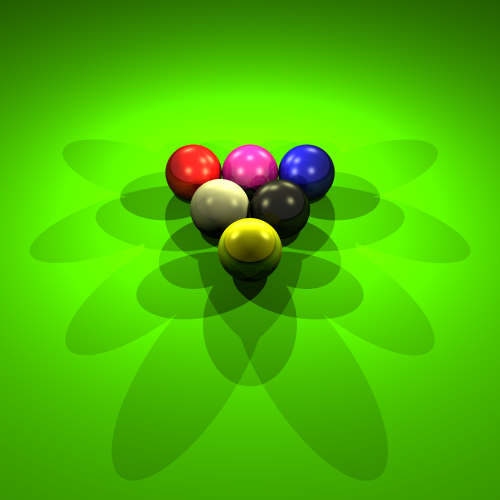
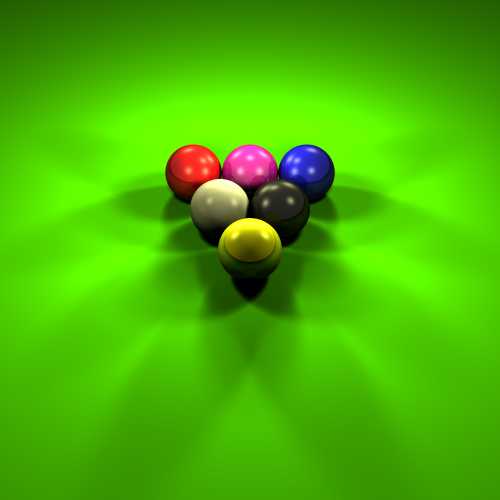
Soft shadows :white_check_mark:

diff --git a/src/RayTracing/Set.java b/src/RayTracing/Set.java
@@ -1,6 +1,7 @@
 package RayTracing;
 
 import java.util.ArrayList;
+import java.util.Random;
 
 import RayTracing.RayTracer.RayTracerException;
 
@@ -17,6 +18,8 @@ public class Set {
 	private ArrayList<Plane> planes;
 	private ArrayList<Triangle> triangles;
 	private ArrayList<Primitive> all_primitives;
+	
+	private Camera cam;
 	
 	public class PrimitiveAndIntersection
 	{
@@ -146,15 +149,7 @@ public class Set {
 		// + cast ray through primitive and get color "behind" it
 		// 	 same recursion.
 		//  + inside this method if transparencyCoeff is zero then return black immediately (no recursion).
-		Color transparency_color = new Color(0,0,0);
-		if (transp != 0){
-			transparency_color = bgcolor;
-			//TODO: is this right way to calculate transparency?
-			if (pai[1].intersection != null){ //found 2nd intersection
-				Ray r = new Ray(pai[1].intersection, ray.getVector());
-				transparency_color = getColorAtIntersectionOfRay(r, depth+1); //searches for the 2nd intersection...
-			}
-		}
+		Color transparency_color = getTransparencyColor(ray, depth, pai, transp);
 
 		//-- get specular color at intersection point
 		//      + doesn't cast more rays (only toward lights)
@@ -168,6 +163,19 @@ public class Set {
 		// return color.trim()
 		retColor.trim();
 		return retColor;
+	}
+
+	private Color getTransparencyColor(Ray ray, int depth, PrimitiveAndIntersection[] pai, double transp) {
+		Color transparency_color = new Color(0,0,0);
+		if (transp != 0){
+			transparency_color = bgcolor;
+			//TODO: is this right way to calculate transparency?
+			if (pai[1].intersection != null){ //found 2nd intersection
+				Ray r = new Ray(pai[1].intersection, ray.getVector());
+				transparency_color = getColorAtIntersectionOfRay(r, depth+1); //searches for the 2nd intersection...
+			}
+		}
+		return transparency_color;
 	}
 	 
 	private Color getSpecularColor(Primitive closest_primitive, Ray ray, Vector closest_intersection) 
@@ -187,7 +195,7 @@ public class Set {
 				Vector L = lit.getOrigin().substract(go_back_a_little);
 				Ray r = new Ray(go_back_a_little, L);
 				
-				if (!firstHit(r, lit)) //if in the shadow: take account for shadow intensity.
+				if (!firstHit(r, lit.getOrigin())) //if in the shadow: take account for shadow intensity.
 				{
 					continue;
 				}
@@ -207,11 +215,6 @@ public class Set {
 			e.printStackTrace();
 		}
 		return retColor;
-	}
-
-	private Color getTransparencyColor(Ray ray, int depth) {
-		// TODO Auto-generated method stub
-		return new Color(0,0,0);
 	}
 
 	private Color getReflectionColor(Ray ray_in, Vector closest_intersection, Primitive closest_primitive, int depth) {
@@ -315,27 +318,65 @@ public class Set {
 		{
 			try
 			{
+				Color I_p = lit.getColor();
 				Color litEffect = new Color(0,0,0);
 				//-- go back a little:
 				Vector go_back_a_little = new Vector(intersection.substract(inRay.getVector().timesScalar(Math.pow(10, -10))));//TODO: think about the correct timesScalar(?)
-
-				Vector L = lit.getOrigin().substract(go_back_a_little);
 				Vector N = primitive.normalAtIntersection(inRay).toUnit();
 				
-				//TODO: soft shadows : need more rays to be cast towards the light.
+				//-- define light rectangle
+				// http://web.cse.ohio-state.edu/~shen.94/681/Site/Slides_files/basic_algo.pdf
+				// slide 17:
 				
-				Ray r = new Ray(go_back_a_little, L);
-				
-				Color I_p = lit.getColor();
-				double factor = N.dotProduct(L.toUnit());
-				if (factor < 0)
-					factor = 0;
-				
-				litEffect = K_d.multiply(I_p).scalarMultipy(factor);
-				if (!firstHit(r, lit)) //if in the shadow: take account for shadow intensity.
+				Vector n = lit.getOrigin().substract(intersection).toUnit();
+				Vector u = cam.get_up_vector().crossProduct(n).toUnit();
+				Vector v = n.crossProduct(u);
+
+				// slide 19:
+				double a = lit.getRadius();
+				double slot = a / num_of_shadow_rays;
+
+				Vector C = new Vector(lit.getOrigin());
+
+				Vector BottomLeftCorner = C.substract(
+						u.timesScalar(a / 2)).substract(
+						v.timesScalar(a / 2));
+
+				Random generator = new Random();
+				double numOfShadowRaysHit = 0;
+				for (int ii = 0; ii < num_of_shadow_rays; ii++)
 				{
-					litEffect = litEffect.scalarMultipy(1 - lit.getShadowIntensity());
+					for (int jj = 0; jj < num_of_shadow_rays; jj++)
+					{
+						Color pLitEffect = new Color(0,0,0);
+						Vector P = BottomLeftCorner.add(u.timesScalar(jj * slot)).add(v.timesScalar(ii * slot));
+						P = P.add(u.timesScalar(slot * generator.nextDouble())).add(
+								v.timesScalar(slot * generator.nextDouble()));
+						
+						Vector L = P.substract(go_back_a_little);
+						
+						double factor = N.dotProduct(L.toUnit());
+						if (factor < 0)
+						{
+							factor = 0;
+						}
+						pLitEffect = K_d.multiply(I_p).scalarMultipy(factor);
+						
+						Ray r = new Ray(go_back_a_little, L);
+						if (firstHit(r, L))
+						{
+							numOfShadowRaysHit++;
+						}
+						else
+						{
+							pLitEffect = pLitEffect.scalarMultipy(1 - lit.getShadowIntensity());
+						}
+						litEffect = litEffect.add(pLitEffect);
+					}
 				}
+				double shadow_rays_factor = numOfShadowRaysHit / (num_of_shadow_rays * num_of_shadow_rays);
+				litEffect = litEffect.scalarMultipy(shadow_rays_factor);
+				litEffect = litEffect.scalarMultipy(1.0 / (num_of_shadow_rays * num_of_shadow_rays));
 				color = color.add(litEffect);
 			}
 			catch (RayTracerException e)
@@ -347,8 +388,7 @@ public class Set {
 		return color;
 	}
 
-	private boolean firstHit(Ray r, Light lit) 
-	{
+	private boolean firstHit(Ray r, Vector V) {
 		for (Primitive primitive : all_primitives)
 		{
 			try 
@@ -361,7 +401,7 @@ public class Set {
 				else
 				{
 					double lengthToPrimitive = in.substract(r.getOrigin()).magnitude();
-					double lengthToLight = lit.getOrigin().substract(r.getOrigin()).magnitude();
+					double lengthToLight = V.substract(r.getOrigin()).magnitude();
 					if (lengthToPrimitive < lengthToLight)
 					{
 						return false;
@@ -395,7 +435,8 @@ public class Set {
 		return super_sampling_lvl;
 	}
 
-
-	
-	
+	public void setCamera(Camera cam)
+	{
+		this.cam = cam;
+	}
 }

diff --git a/src/RayTracing/RayTracer.java b/src/RayTracing/RayTracer.java
@@ -214,7 +214,7 @@ public class RayTracer
 		long endTime = System.currentTimeMillis();
 		Long renderTime = endTime - startTime;
 
-	    // The time is measured for your own conveniece, rendering speed will not affect your score
+	    // The time is measured for your own convenience, rendering speed will not affect your score
 		// unless it is exceptionally slow (more than a couple of minutes)
 		System.out.println("Finished rendering scene in " + renderTime.toString() + " milliseconds.");
 

diff --git a/src/RayTracing/ThreadPool.java b/src/RayTracing/ThreadPool.java
@@ -14,8 +14,9 @@ public class ThreadPool {
 	{
 		executor = Executors.newFixedThreadPool(numOfWorkers);
 		this.rgbData = rgbData;
-		this.set = set;
 		this.cam = cam;
+		this.set = set;
+		this.set.setCamera(cam);
 	}
 	
     public void render(int numRows, int numCols) 

diff --git a/src/RayTracing/Camera.java b/src/RayTracing/Camera.java
@@ -155,4 +155,8 @@ public class Camera {
 		System.out.println(String.format("ViewingPlane: corners are (L,L2,L3,L4) = (%s,%s,%s,%s)",
 				L,L2,L3,L4));
 	}
+
+	public Vector get_up_vector() {
+		return new Vector(up_vector);
+	}
 }

diff --git a/src/RayTracing/Light.java b/src/RayTracing/Light.java
@@ -55,4 +55,8 @@ public class Light {
 	{
 		return shadow_intensity;
 	}
+
+	public double getRadius() {
+		return radius;
+	}
 }
